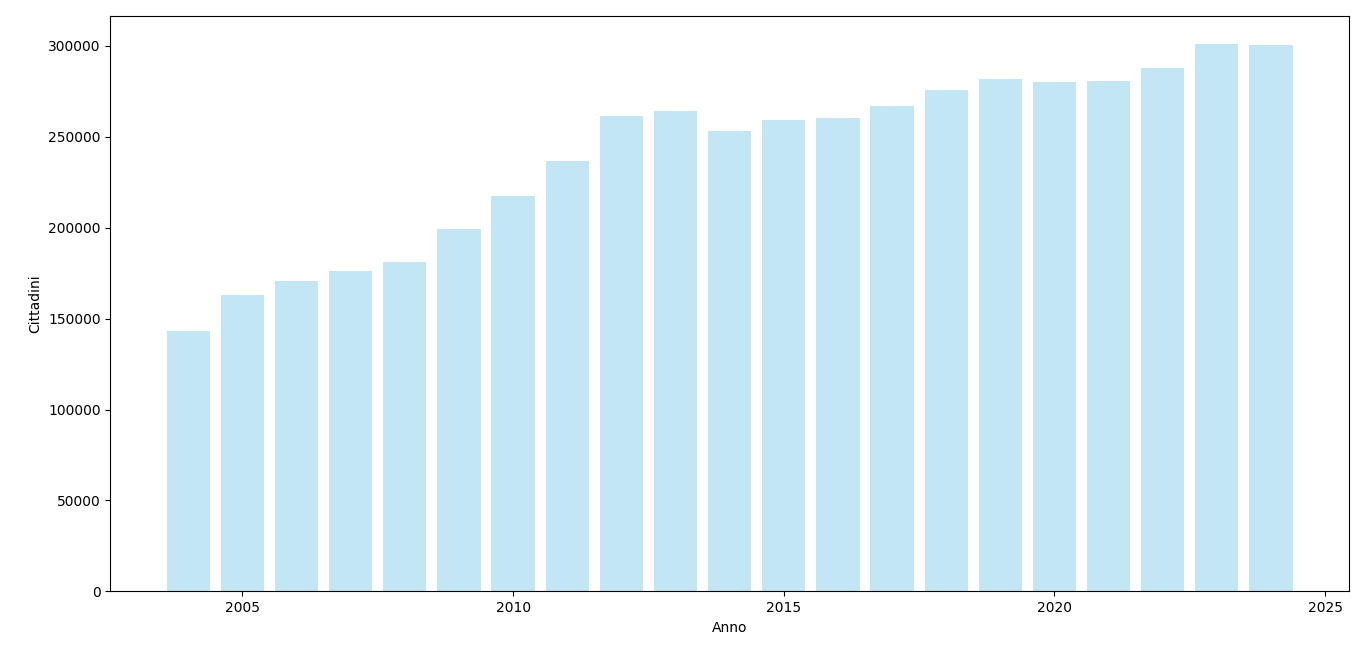
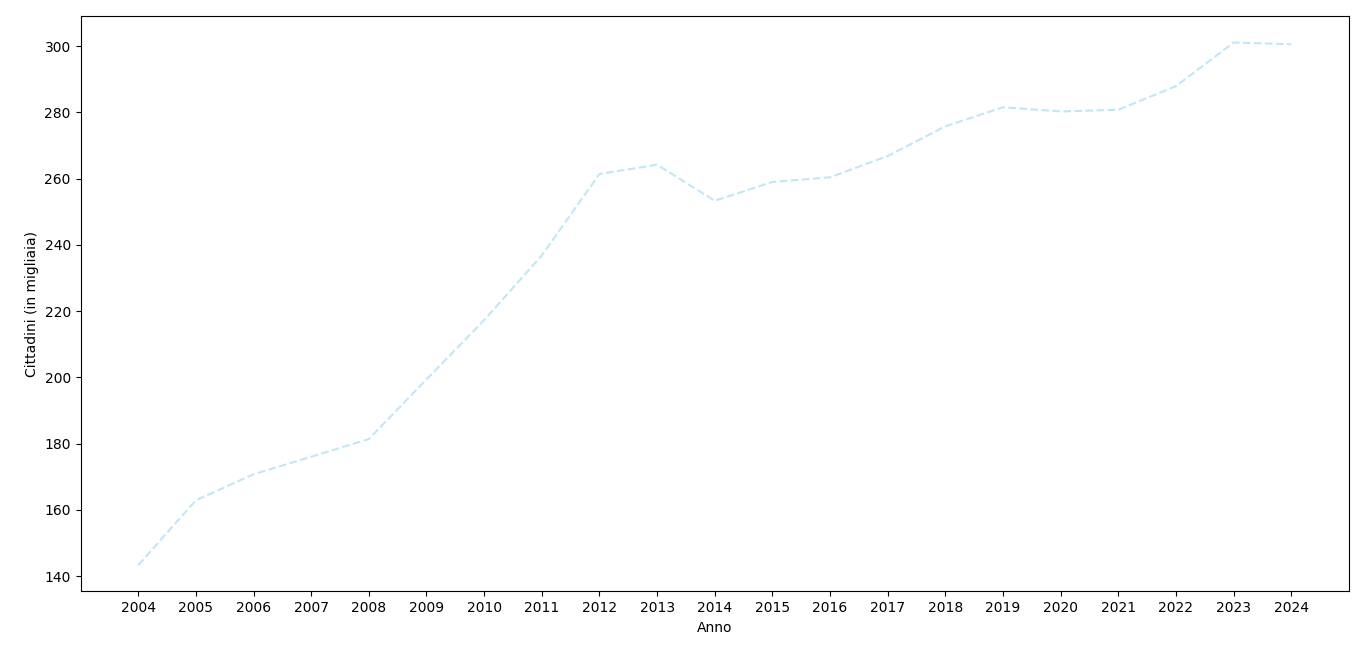
Changing bar plot to line plot.

diff --git a/scripts/yearly_foreigners.py b/scripts/yearly_foreigners.py
@@ -21,17 +21,15 @@ def sequence(starting_year, ending_year, jump_years):
     begin = starting_year
     amounts = {'year': [], 'total':[]}
     while begin < ending_year+jump_years:
-        amounts["total"].append(count_people_per_year(begin))
+        amounts["total"].append(count_people_per_year(begin)/1000)
         amounts["year"].append(begin)
         begin = begin+jump_years
 
-    #a = pd.DataFrame(amounts)
     plt.figure(figsize=(12, 6))
-    plt.bar(amounts['year'], amounts['total'], color='skyblue', zorder=2, alpha=0.5)
-    #a.plot(legend=False)
+    plt.plot(amounts['year'], amounts['total'], color='skyblue', zorder=2, alpha=0.5, linestyle = 'dashed')
     plt.xlabel('Anno')
-    plt.ylabel('Cittadini')
-    #plt.title(f'Stranieri tra il {starting_year} e il {ending_year} a Milano')
+    plt.ylabel('Cittadini (in migliaia)')
+    plt.xticks(amounts['year'])
     plt.tight_layout()
     plt.show()
 
